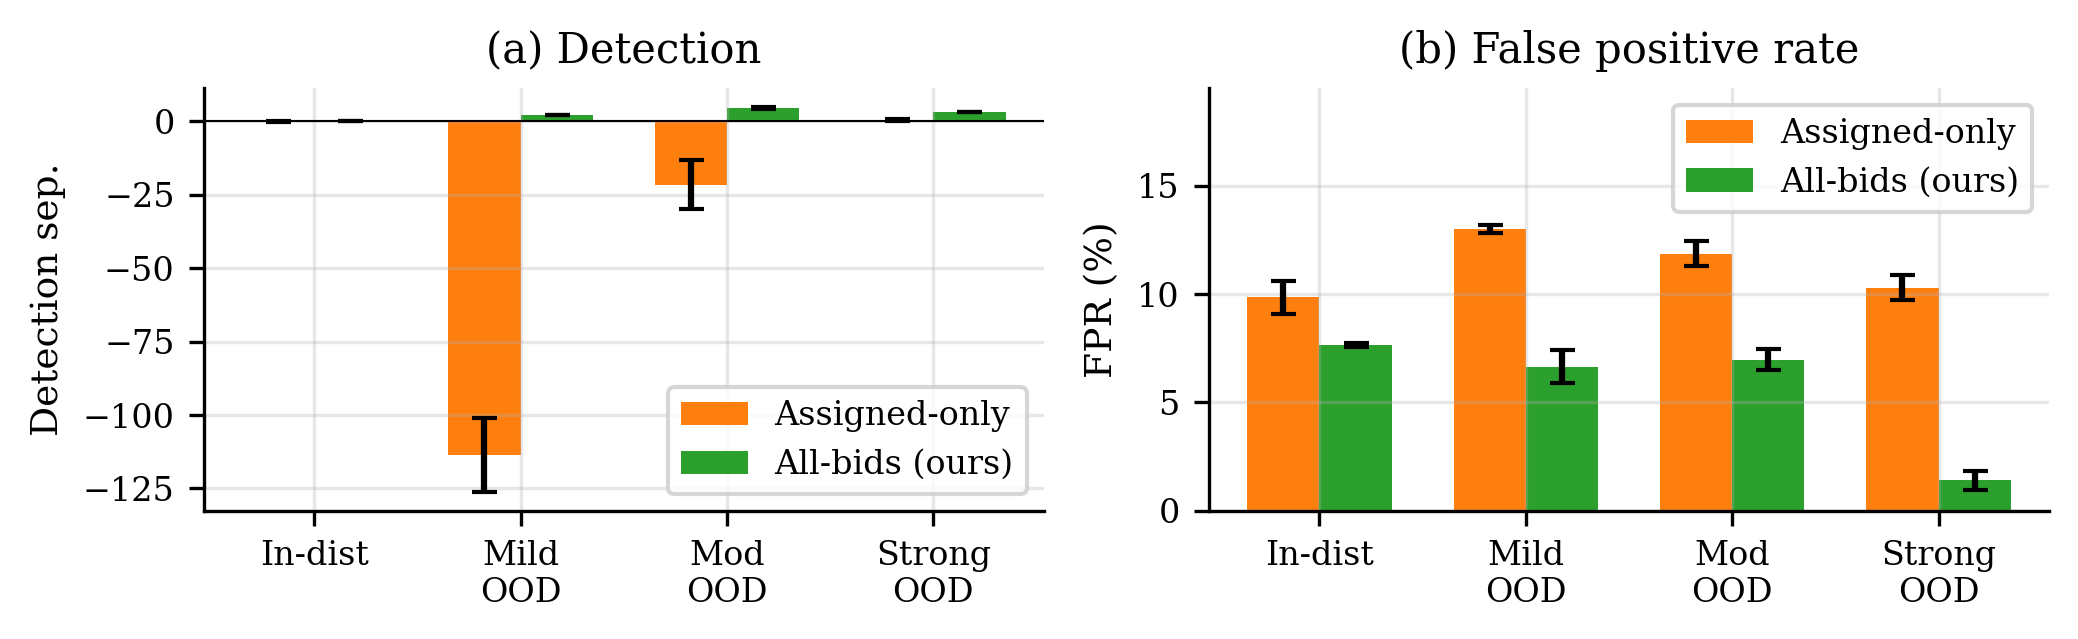
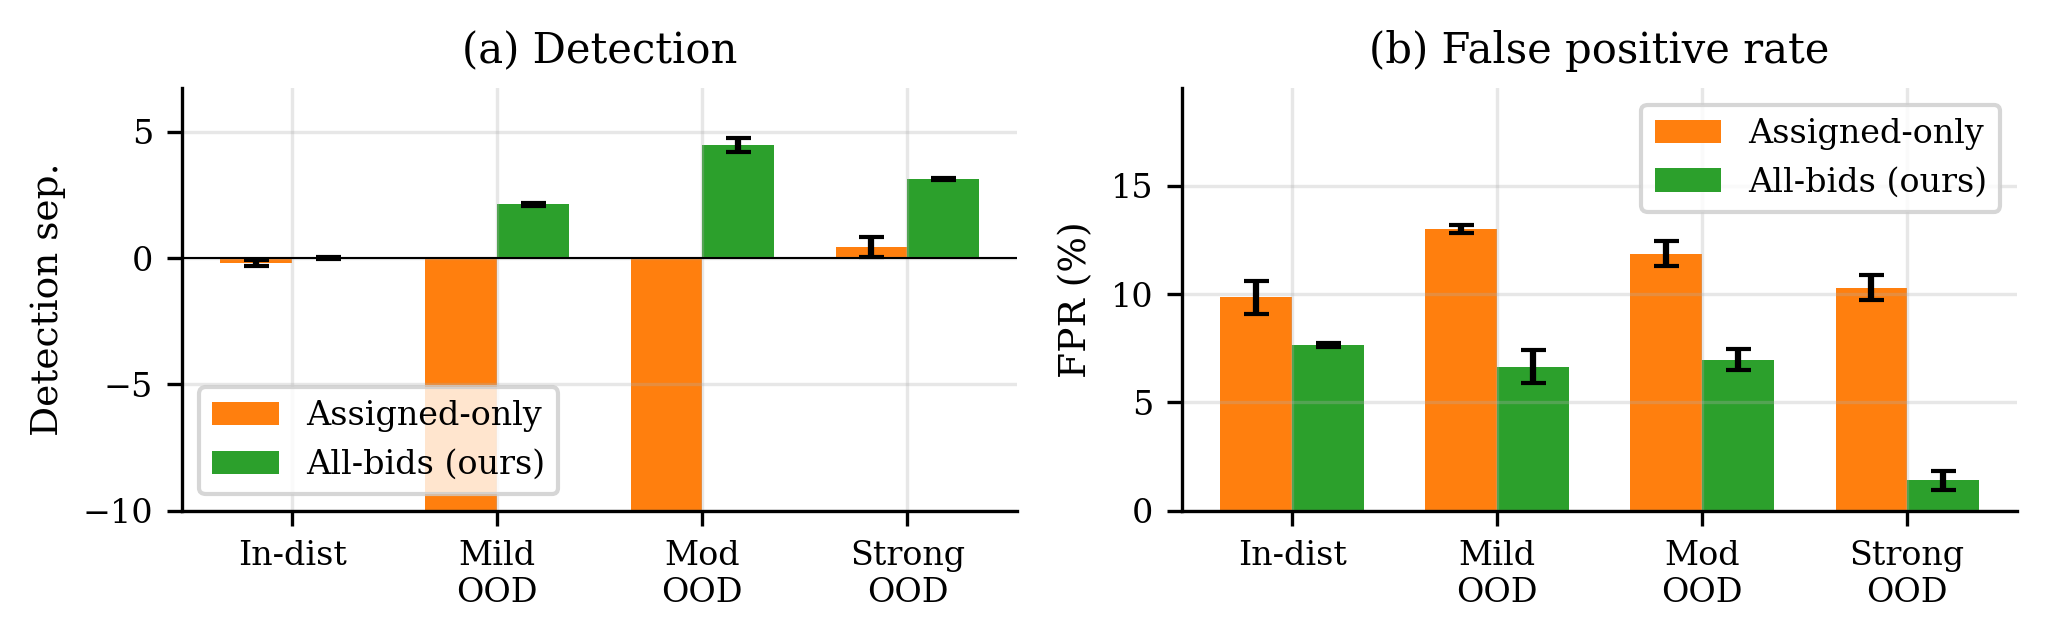
fig1: clip y-axis to show green bars, annotate truncated orange

diff --git a/terrain_bidding/experiments/plot_figures.py b/terrain_bidding/experiments/plot_figures.py
@@ -40,6 +40,11 @@ def fig1(data):
     ax1.set_xticks(x); ax1.set_xticklabels(labels)
     ax1.set_ylabel("Detection sep."); ax1.set_title("(a) Detection")
     ax1.axhline(0, color="k", linewidth=0.5); ax1.legend()
+    ax1.set_ylim(-10, max(seps_b) * 1.5)  # clip to show green bars
+    # Annotate clipped orange bars
+    for i, v in enumerate(seps_a):
+        if v < -10:
+            ax1.annotate(f"{v:.0f}", xy=(x[i] - w/2, -9.5), fontsize=7, ha="center", color="#ff7f0e")
 
     fprs_a = [fig1d[t]["assigned"]["fpr_mean"]*100 for t in terrains]
     fprs_b = [fig1d[t]["allbids"]["fpr_mean"]*100 for t in terrains]
